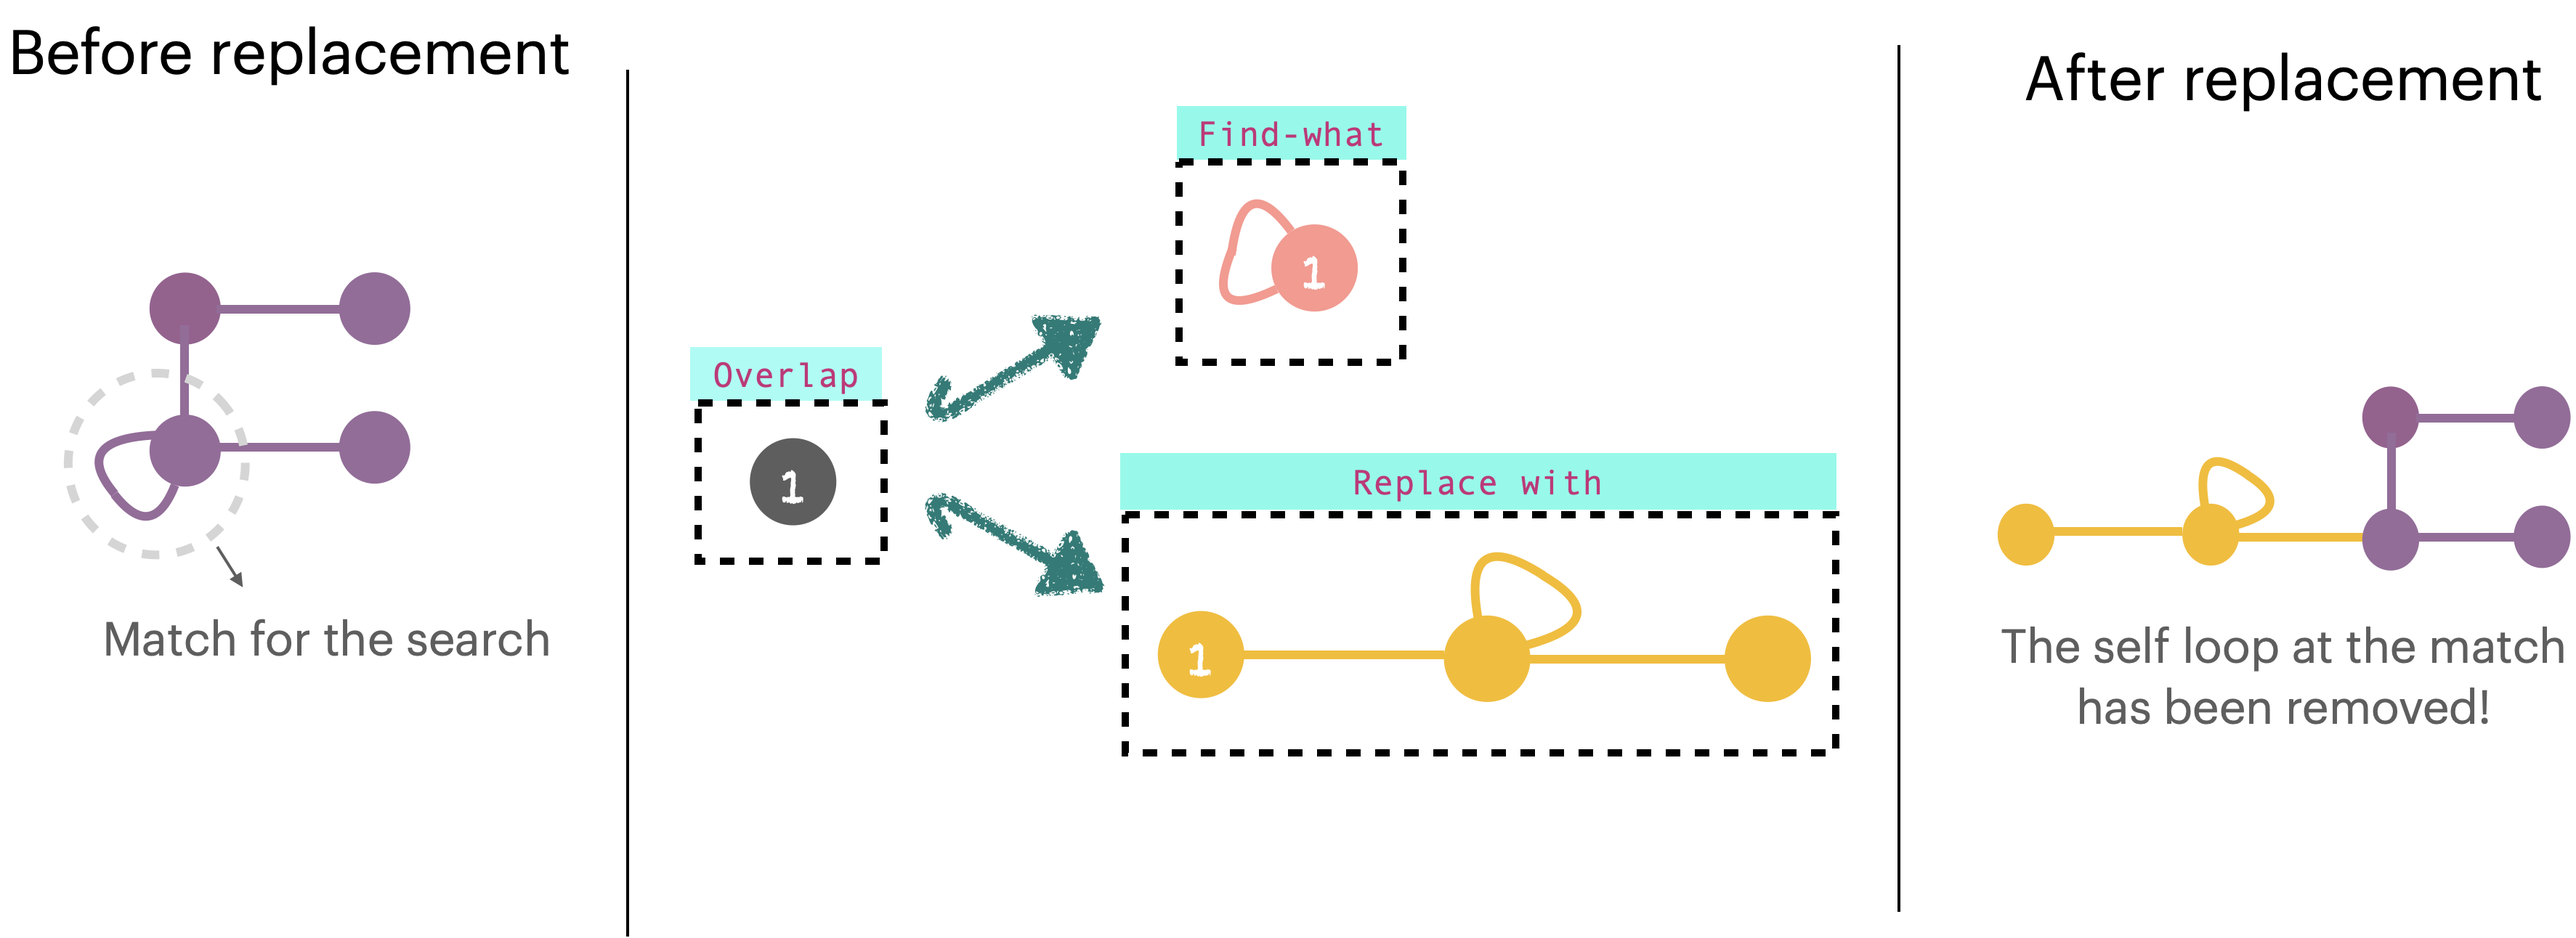
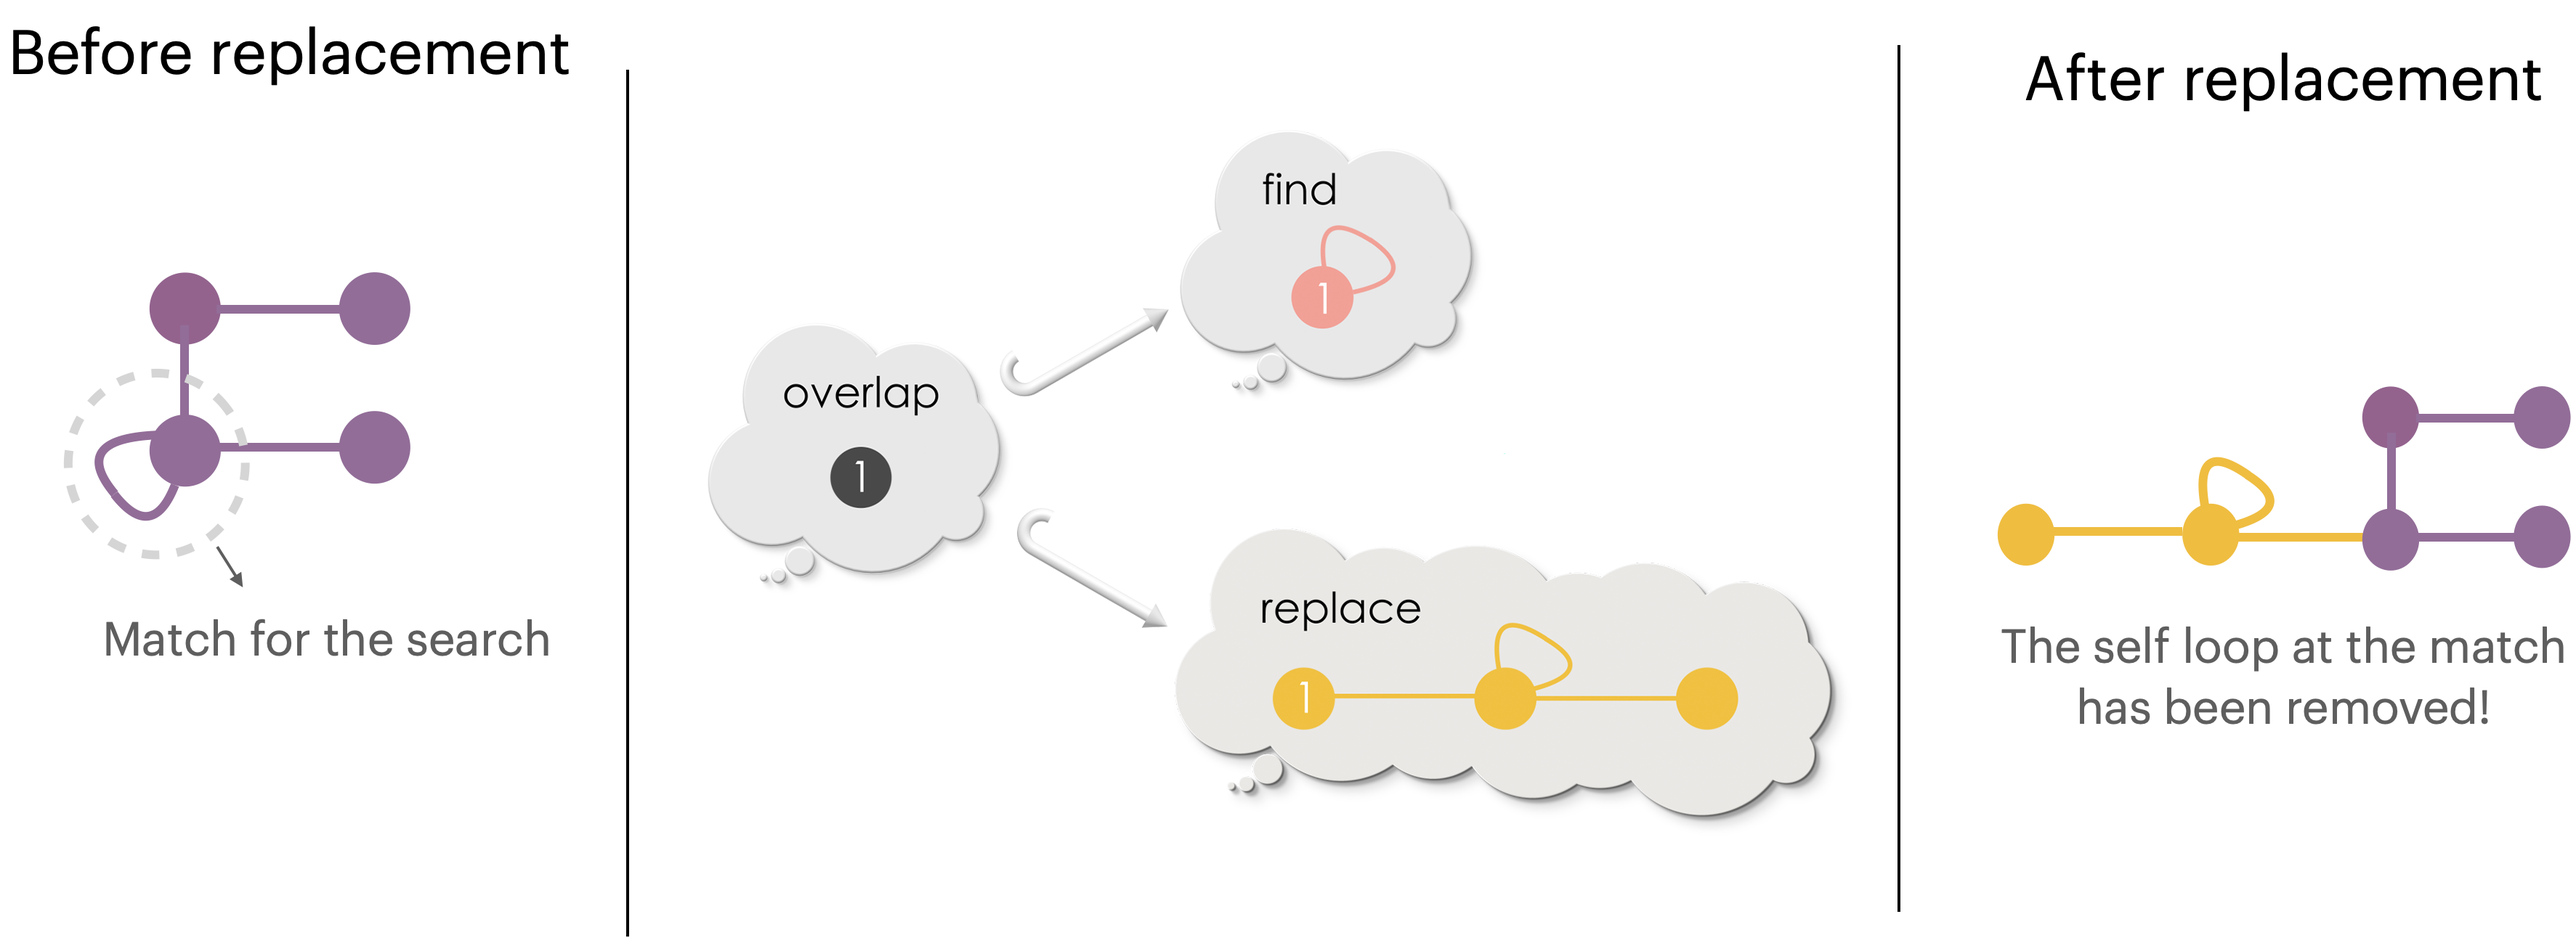
New images in sections 6.1, 6.2

Changed region(s): [[0.4343, 0.4644, 0.7135, 0.8978], [0.2482, 0.0929, 0.5894, 0.4644], [0.2792, 0.4644, 0.4343, 0.6502]]

diff --git a/chp6-dpo.md b/chp6-dpo.md
@@ -142,7 +142,7 @@ How would you specify overlap `Find` and `Replace`?
 
 We know from Chapter 5, how to specify overlap between two graphs :) Do you remember the diagram with two radiating graph morphisms?
 
-```{image} assets/Ch6/overlap.png
+```{image} assets/Ch6/1.png
 :alt: Whoopsy!
 :width: 300px
 :align: center
@@ -159,9 +159,9 @@ How do the graphs `Find` and `Replace` overlap in case of Replacement-1 and Repl
 :align: center
 ```
 
-```{image} assets/Ch6/puzzle-1.png
+```{image} assets/Ch6/2.png
 :alt: Whoopsy!
-:width: 300px
+:width: 600px
 :align: center
 ```
 :::
@@ -174,7 +174,7 @@ The specification for the overlaps are as follows!
 
 For replacement-1, 
 
-```{image} assets/Ch6/interface-1.png
+```{image} assets/Ch6/3.png
 :alt: Whoopsy!
 :width: 575px
 :align: center
@@ -182,7 +182,7 @@ For replacement-1,
 
  and replacement-2:
 
-```{image} assets/Ch6/interface-2.png
+```{image} assets/Ch6/4.png
 :alt: Whoopsy!
 :width: 625px
 :align: center
@@ -208,7 +208,7 @@ Note that the `overlap` shape remains unchanged during the replacement. The over
 
 Thus, a specification for "find-and-replace" in graphs consists of a deletion rule and an addition rule:
 
-```{image} assets/Ch6/specification.png
+```{image} assets/Ch6/5.png
 :alt: Whoopsy!
 :width: 625px
 :align: center
@@ -231,7 +231,7 @@ Find the overlap between `Find` and `Replace` for the following replacement:
 :::{admonition} Solution 
 :class: dropdown
 ````{div} wrapper 
-```{image} assets/Ch6/puzzle-2-sol.png
+```{image} assets/Ch6/6.png
 :alt: Whoopsy!
 :width: 425px
 :align: center
@@ -269,7 +269,7 @@ Apply the following replacement in the host graph. The match between `Find` and 
 
 The interface to find-and-replace needs to have:
 
-```{image} assets/Ch6/interface.png
+```{image} assets/Ch6/8.png
 :alt: Whoopsy!
 :width: 450px
 :align: center
